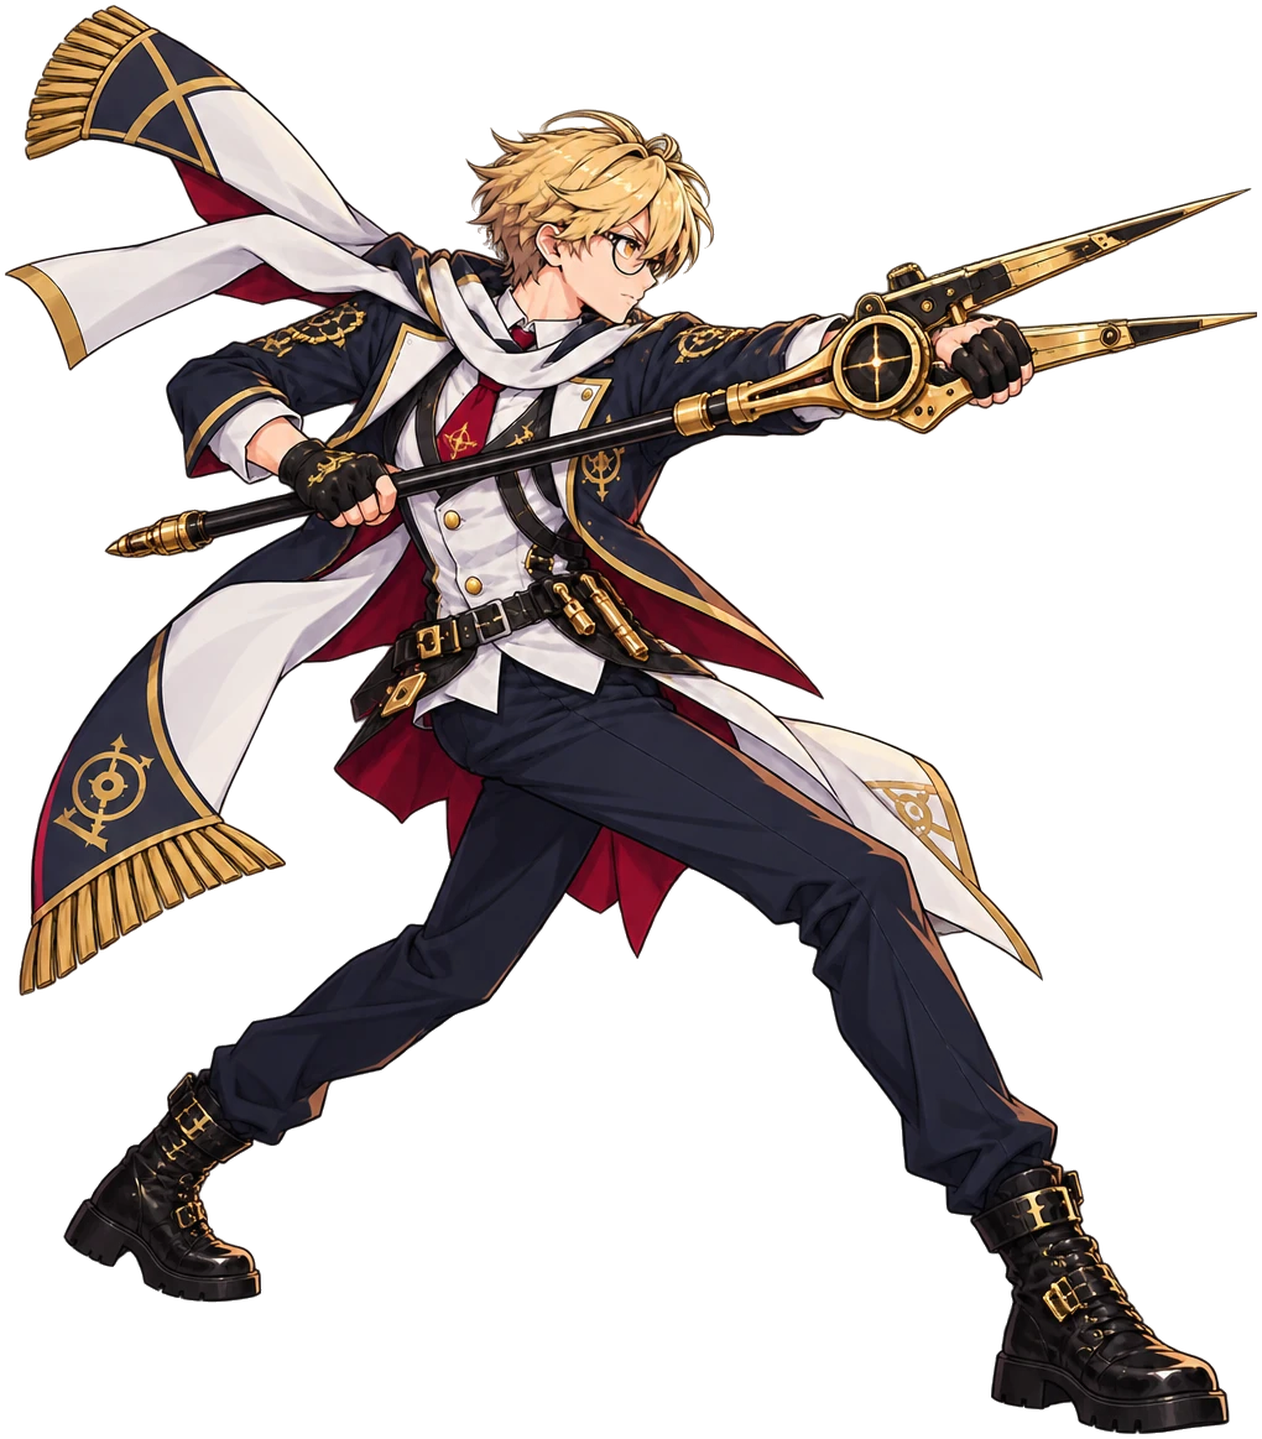
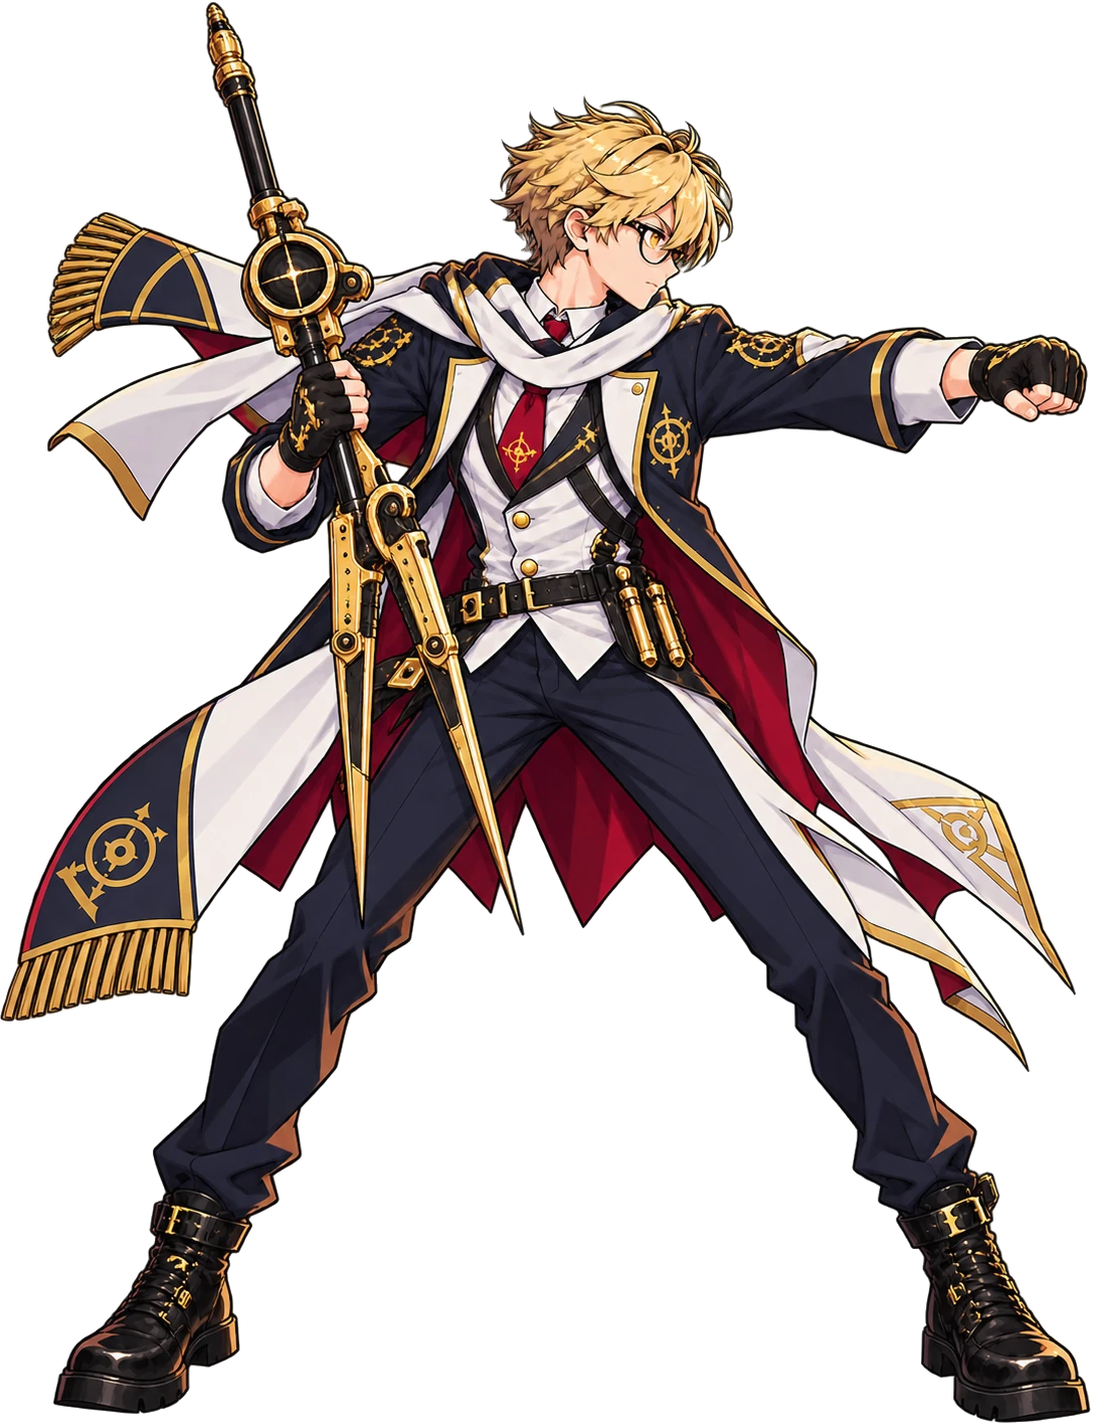
Root2 새 P(짧은 잽) 그림 교체
머리~발 높이를 예전 P 그림과 같게 맞춰서 저장 (컴퍼스가 머리 위로 솟아 있어서 전체 높이로 맞추면 몸이 작아짐).
PROMPTS.md '다시 뽑을 그림'에서 제거

Claude-Session: https://claude.ai/code/session_01DkxNRghxDBAgHYk82cYTSd

diff --git a/tools/make_prompts.py b/tools/make_prompts.py
@@ -92,11 +92,7 @@ SPECIALS = {
 }
 
 # 다시 뽑을 그림: (파일, 설명, Pose 문장). 새 그림을 넣으면 여기서 지운다
-REDO = [
-    ('root2_punch', 'P (짧은 잽) — 지금 그림은 너무 길게 찔러서 6D(컴퍼스 찌르기)로 옮김',
-     'quick short jab, the free front hand punching straight forward at chest height with the arm only half extended, '
-     'the giant compass held upright close to the body in the back hand, compact stance, feet shoulder-width apart'),
-]
+REDO = []
 
 EFFECTS = [
     ('chemikid_flask', '플라스크 (투사체)', 'a glass Erlenmeyer flask filled with glowing toxic-green liquid, tilted as if thrown'),

diff --git a/docs/PROMPTS.md b/docs/PROMPTS.md
@@ -17,13 +17,6 @@
 
 이펙트: 0/24
 
-## 0. 다시 뽑을 그림
-
-⬜ **P (짧은 잽) — 지금 그림은 너무 길게 찔러서 6D(컴퍼스 찌르기)로 옮김** → `root2_punch`
-```
-Same character as the attached image: same face, hair, outfit, colors and body proportions. Full body, facing right (three-quarter side view), whole body visible from head to feet, transparent background (real alpha channel, not a checkerboard pattern), no effects, no glowing particles, no energy, no motion lines, no ground shadow, no text. Holding his giant drafting compass. Pose: quick short jab, the free front hand punching straight forward at chest height with the arm only half extended, the giant compass held upright close to the body in the back hand, compact stance, feet shoulder-width apart. Age-appropriate high school student, fully clothed in a modest school uniform or club outfit, long sleeves or jacket, knee-length or longer skirt/pants, no exposed skin other than face and hands, non-sexualized, natural body proportions, wholesome. Japanese anime fighting game art style, cel-shaded with hard-edged shadows, thick black ink outlines, high contrast, saturated colors, dramatic rim lighting, gritty rock-and-roll / heavy metal aesthetic, color accents of crimson red, black and white.
-```
-
 ## 1. 걷기 시트 (4프레임, 한 장)
 
 ### ✅ 🧪 CHEMIKID → `chemikid_walk` ~ `chemikid_walk4`
